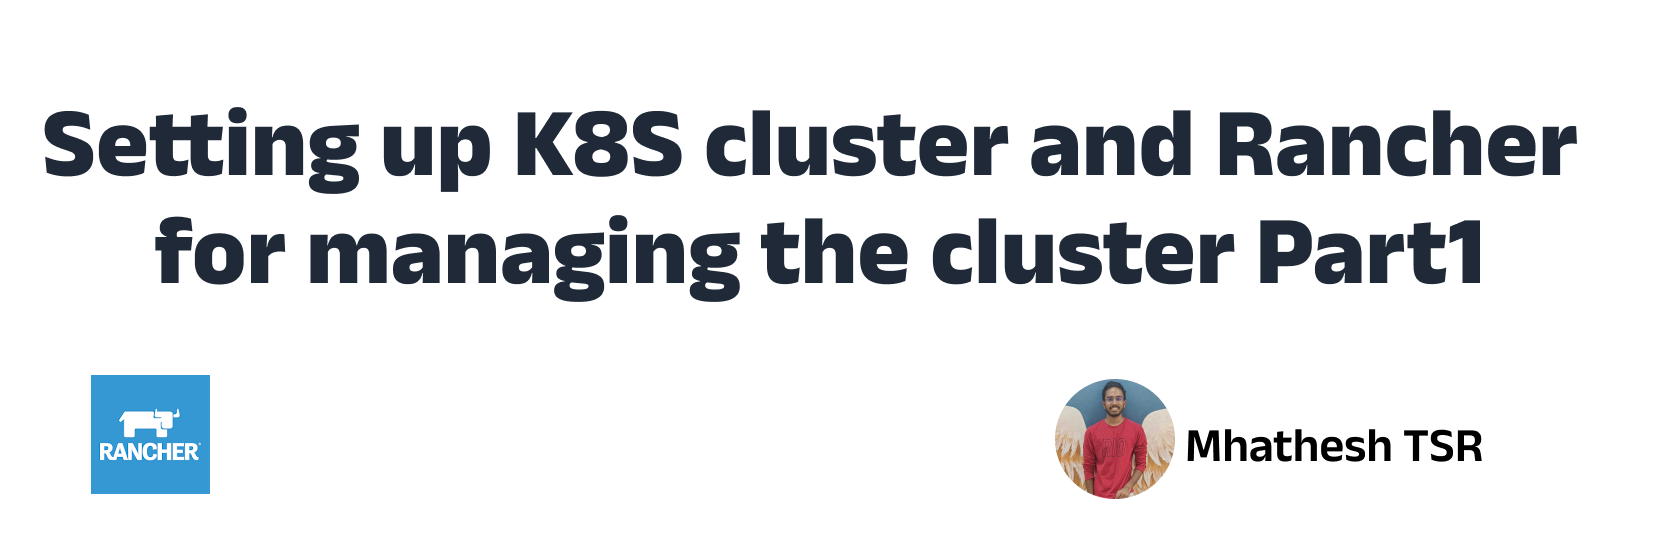
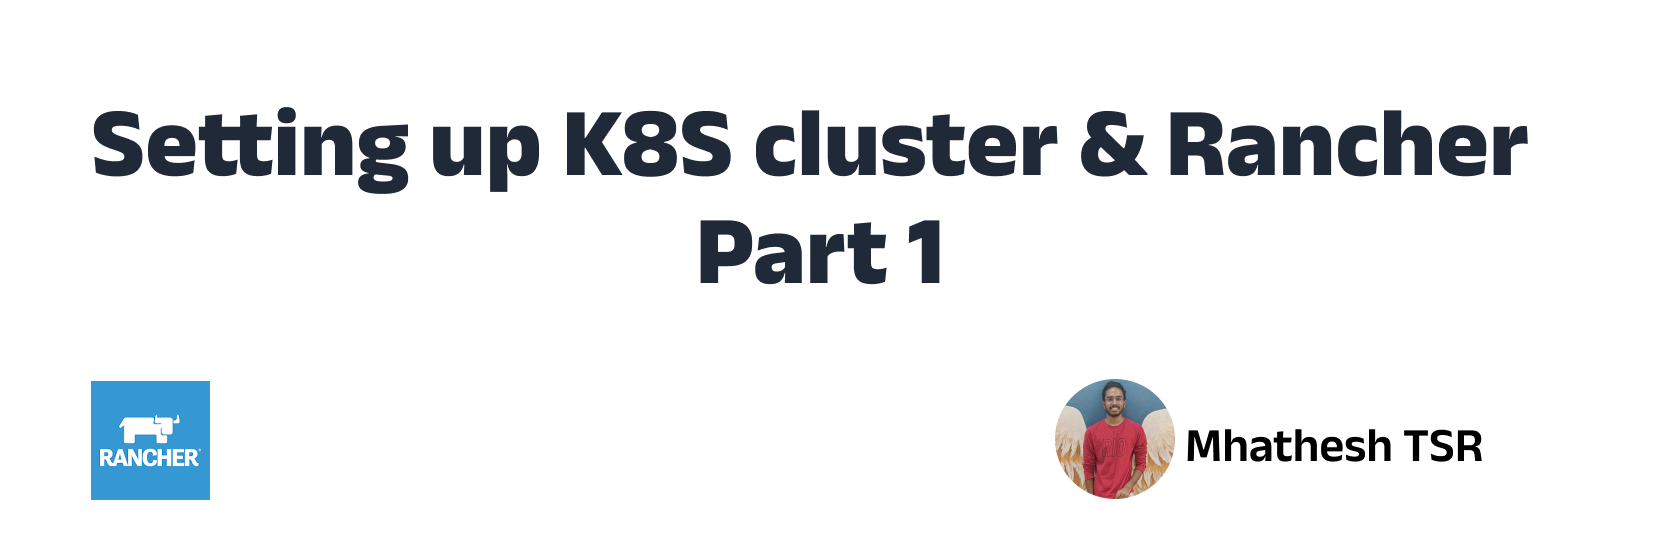
Update image

diff --git a/content/post/rancher-part-1.md b/content/post/rancher-part-1.md
@@ -1,9 +1,9 @@
 ---
-title: "Setting up K8S cluster and Rancher for managing the cluster"
+title: "Supercharge your cluster management: K8S and Rancher combo! - Part 1"
 date: 2023-05-26T17:08:11+05:30
 draft: false
 tags: ["devops"]
-categories: ["Security"]
+categories: ["Engineering"]
 image: "img/k8s-cluster-and-rancher.png"
 author: "Mhathesh TSR"
 authorDes: "DevOps Engineer at Nurdsoft"
